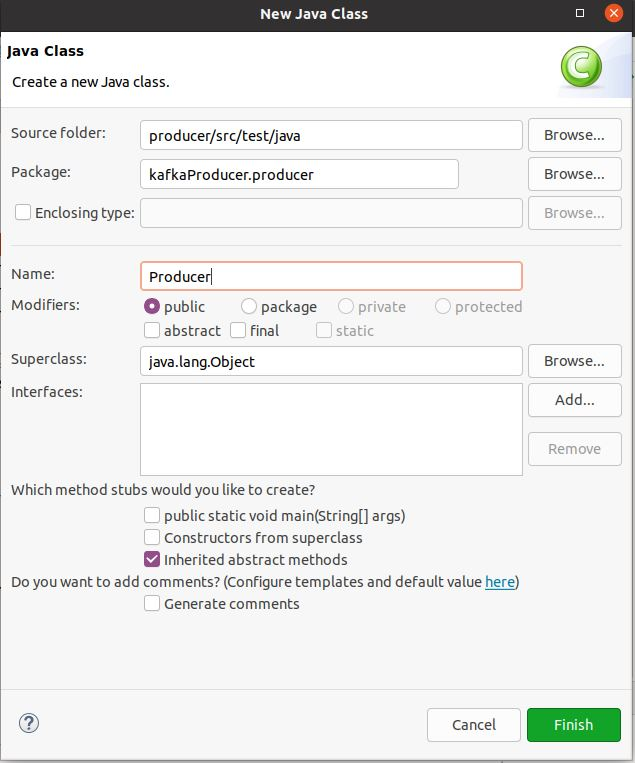
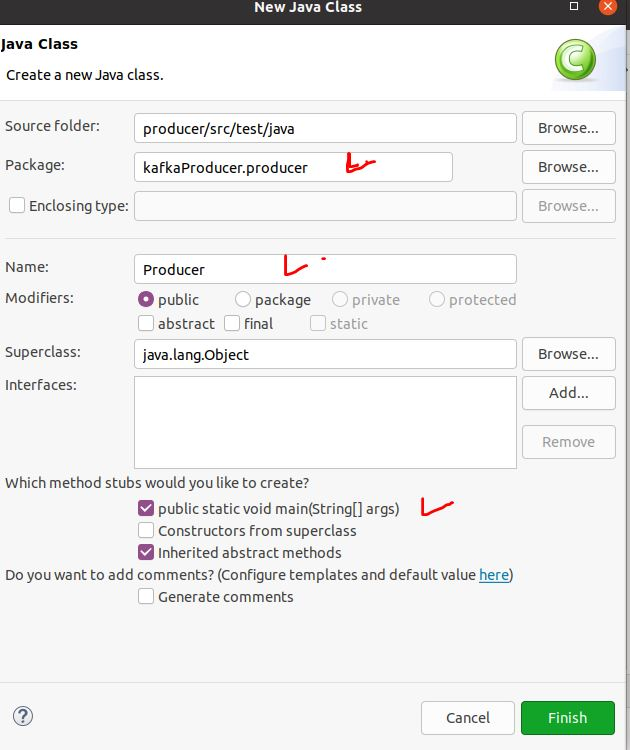
producer_java.md

diff --git a/Kafka/producer_java.md b/Kafka/producer_java.md
@@ -54,11 +54,51 @@ $ ./eclipse-insi
     <br><img src="https://github.com/RainingCodes/Industry-Academic-Cooperation1/blob/main/Kafka/img/img11.png" width="1000px" height="800px" alt="maven6"></img><br/>
 
 ## STEP 4 Producer.java
+ * Topic은 이미 만들어진 상태라고 가정 (<a src="https://github.com/RainingCodes/Industry-Academic-Cooperation1/blob/main/Kafka/start.md#step3--topic-%EC%83%9D%EC%84%B1">topic 생성</a>)
  * producer/src/test/java 우클릭 > New > Class 클릭
 <br><img src="https://github.com/RainingCodes/Industry-Academic-Cooperation1/blob/main/Kafka/img/img12.JPG" width="300px" height="200px" alt="producer.java1"></img><br/>
- * package 선택 후 Name : Producer 입력
+
+ * package 선택 후 Name : Producer 입력, main 함수 자동 완성 click
  <br><img src="https://github.com/RainingCodes/Industry-Academic-Cooperation1/blob/main/Kafka/img/img13.JPG" width="300px" height="500px" alt="producer.java2"></img><img src="https://github.com/RainingCodes/Industry-Academic-Cooperation1/blob/main/Kafka/img/img14.JPG" width="300px" height="500px" alt="producer.java3"></img><br/> 
+ 
+ * 5개의 랜덤 숫자를 전송하는 Producer 프로그램 작성
 ```
+//static 변수 선언
+private static final String TOPIC_NAME = "TEST"; 
+
+//main 함수 부분, throws InterruptedException 추가 필요
+Random random = new Random();
+        
+Properties prop = new Properties();
+prop.put(ProducerConfig.BOOTSTRAP_SERVERS_CONFIG, "localhost:9092");
+prop.put(ProducerConfig.KEY_SERIALIZER_CLASS_CONFIG, StringSerializer.class.getName());
+prop.put(ProducerConfig.VALUE_SERIALIZER_CLASS_CONFIG, StringSerializer.class.getName());
+ 
+
+String message = null;
+
+// producer 생성
+KafkaProducer<String, String> producer = new KafkaProducer<String, String>(prop);
+
+// sending message 5 times 
+for(int i = 0; i < 5; i++) {
+
+      message = Integer.toString(random.nextInt(100)); // 1~100 중 랜덤숫자
+      producer.send(new ProducerRecord<String,String>(TOPIC_NAME, message));
+      System.out.println("message sent from Producer.java : " + message);
+      Thread.sleep(1000); // 1초
+
+}
 ```
 
+ * 실행화면
+ <br><img src="https://github.com/RainingCodes/Industry-Academic-Cooperation1/blob/main/Kafka/img/img15.JPG" width="1000px" height="800px" alt="producer.java4"><br/>
+
+
 ## STEP 5 message 확인
+* kafka도 켜 두어야 함 (<a src="bin/kafka-console-consumer.sh --topic TEST --from-beginning --bootstrap-server localhost:9092"> kafka 실행</a>)
+```
+$ bin/kafka-console-consumer.sh --topic TEST --from-beginning --bootstrap-server localhost:9092
+```
+
+<br><img src="https://github.com/RainingCodes/Industry-Academic-Cooperation1/blob/main/Kafka/img/img17.png" width="400px" height="50px" alt="producer.java6"><br/> 
